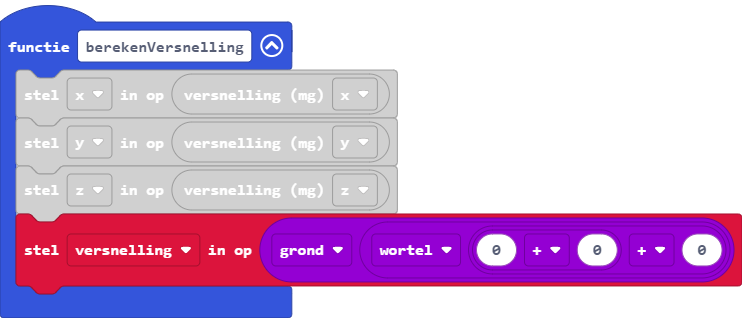
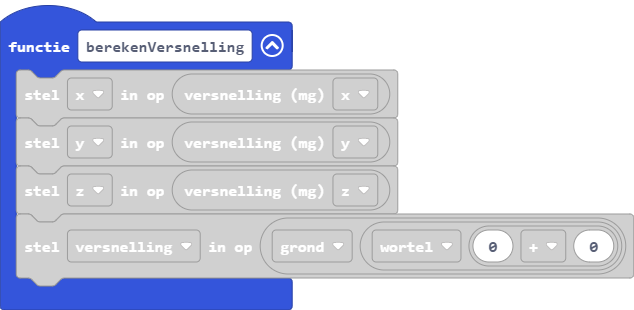
main.blocks, main.ts bijwerken

diff --git a/main.ts b/main.ts
@@ -2,7 +2,7 @@ function berekenVersnelling () {
     x = input.acceleration(Dimension.X)
     y = input.acceleration(Dimension.Y)
     z = input.acceleration(Dimension.Z)
-    versnelling = Math.floor(Math.sqrt(0 + 0 + 0))
+    versnelling = Math.floor(Math.sqrt(0 + 0))
 }
 let versnelling = 0
 let z = 0
@@ -24,7 +24,7 @@ basic.forever(function () {
     }
 })
 basic.forever(function () {
-    erekenVersnelling()
+	
 })
 basic.forever(function () {
     basic.showString("" + (aantalStappen))
